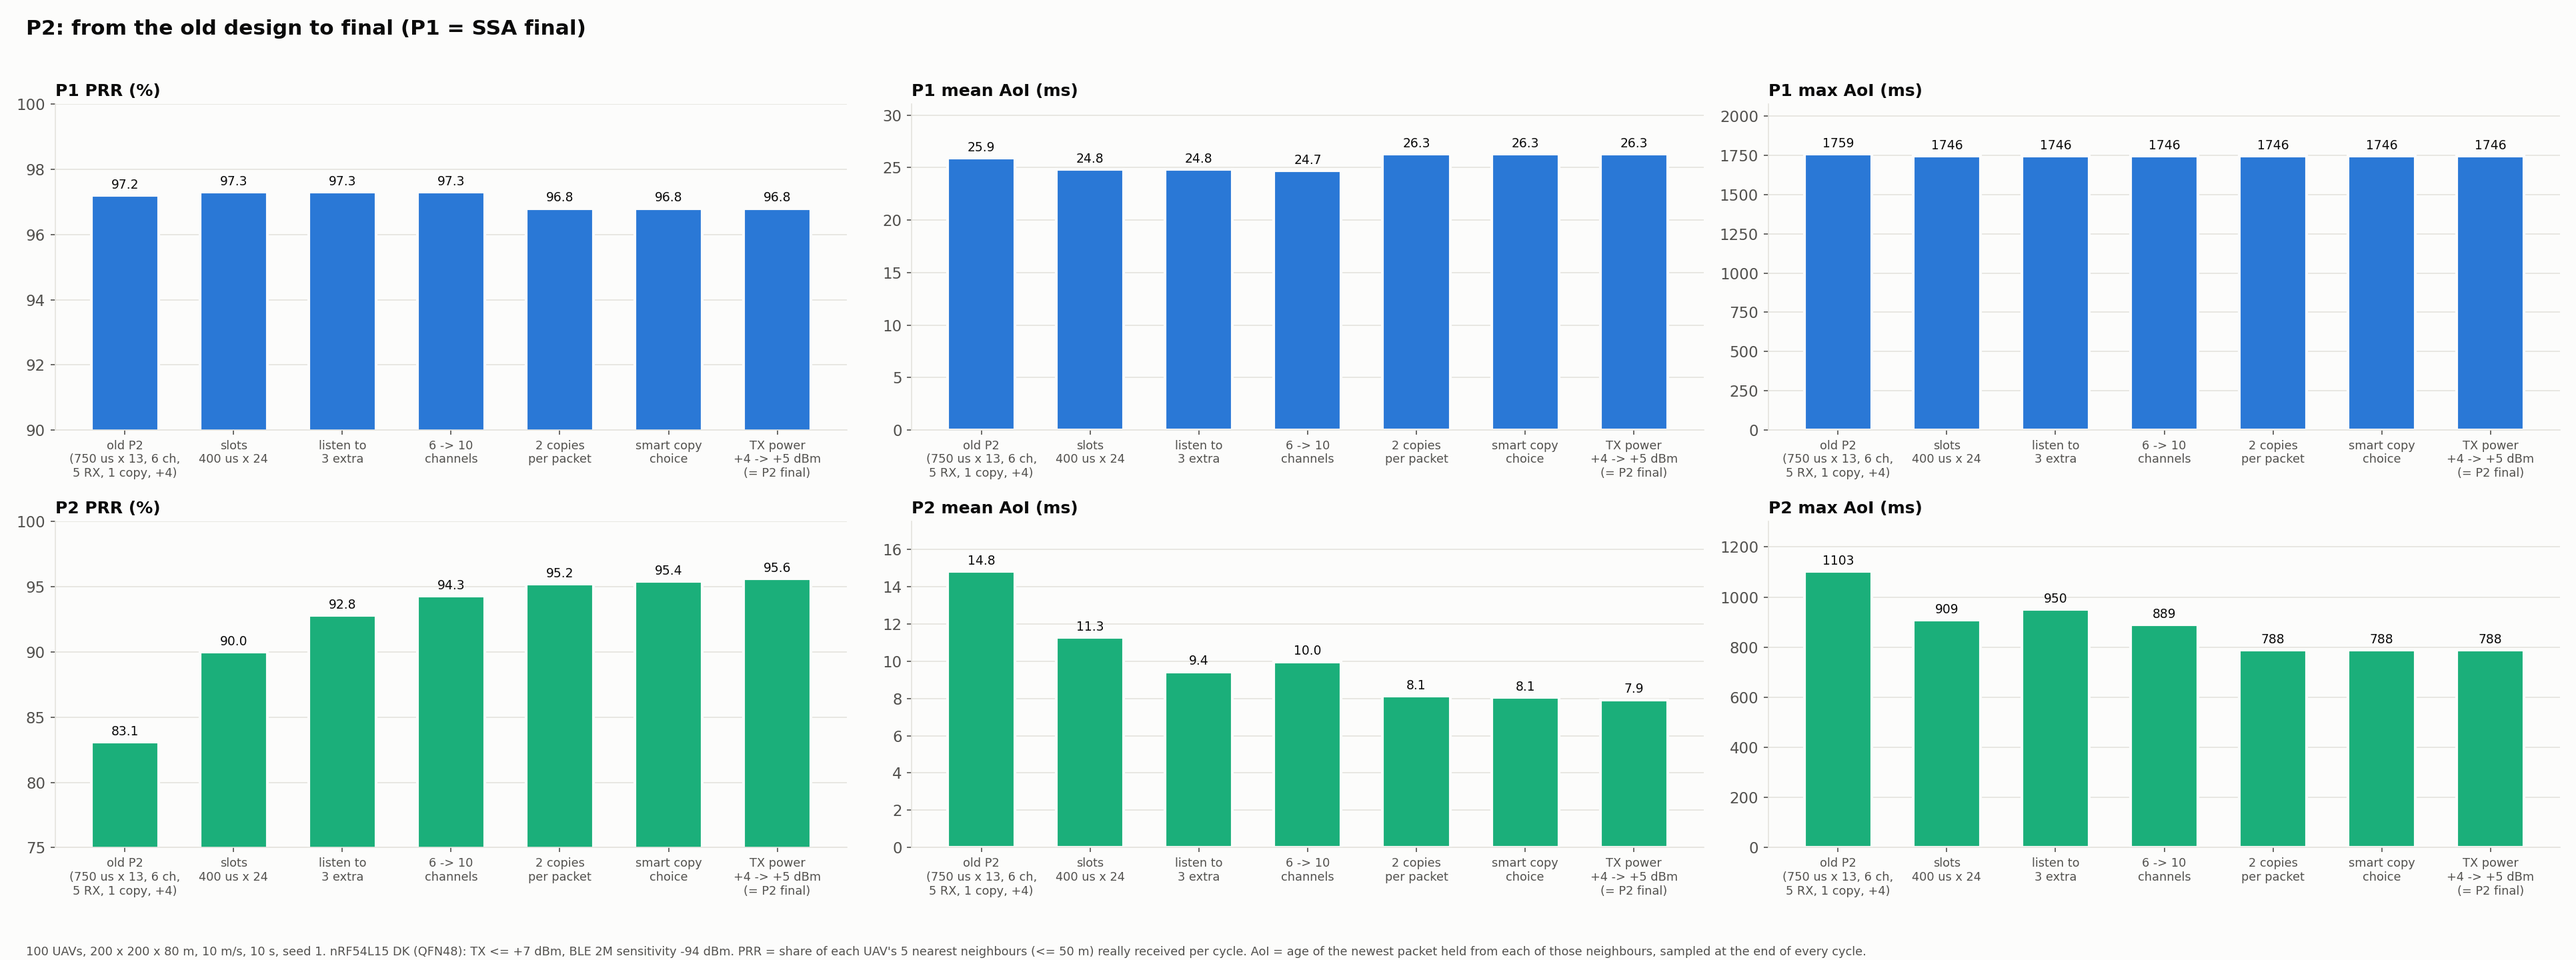
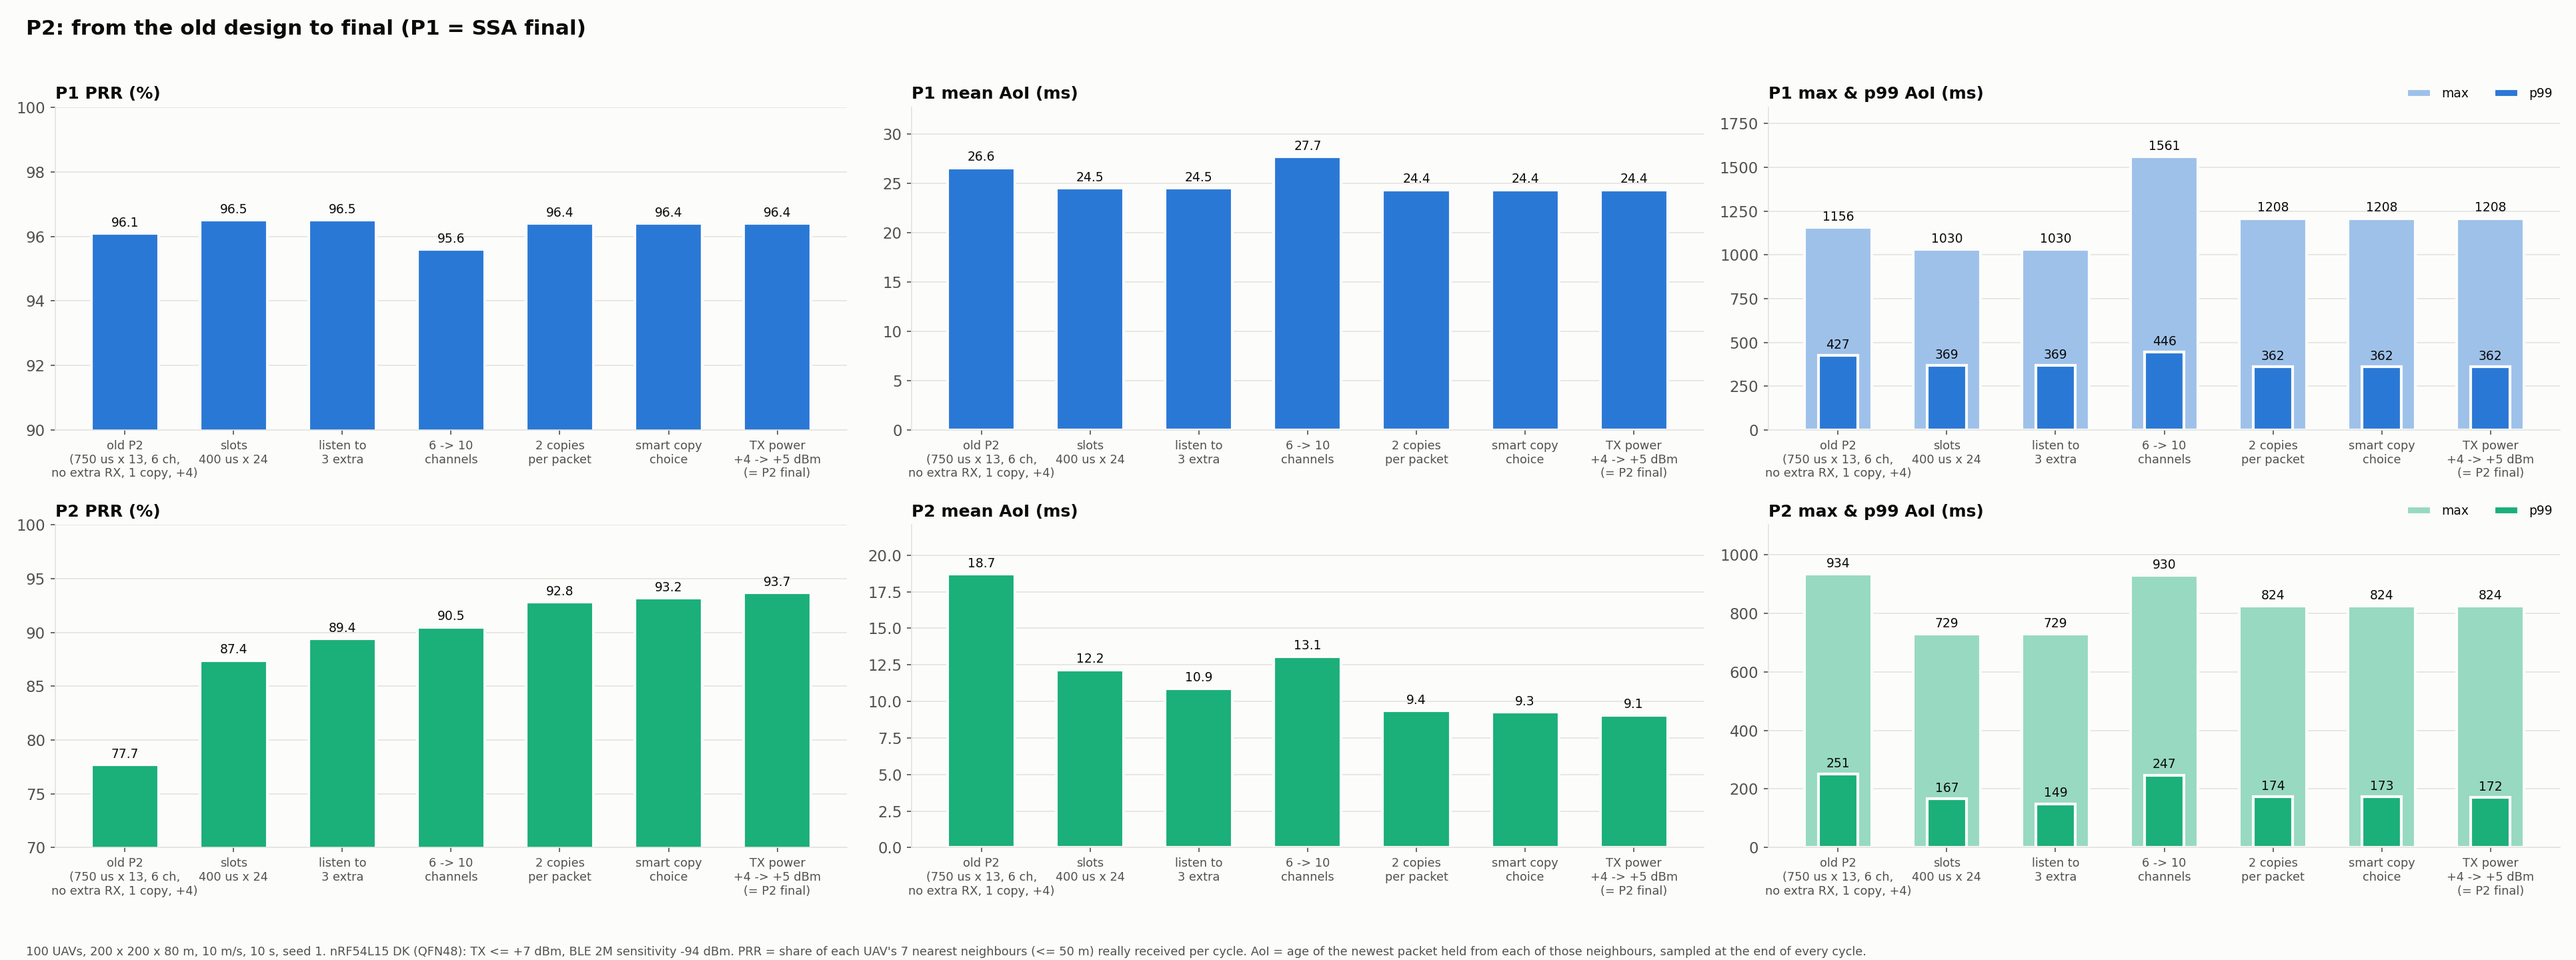
feat: Top-7 targets (--topK, default 7), AoI safety metrics; SSA final reselection 20-60 without first-pick counter; redo build-ups (seed 1)
Max AoI panels now also show p99. P2 final (top-7): PRR 93.7 %, mean AoI 9.1 ms, p99 172 ms.

diff --git a/scratch/lr-wpan-swarm.cc b/scratch/lr-wpan-swarm.cc
@@ -55,15 +55,19 @@ static uint32_t Crc32(const uint8_t* d, size_t n) {
     }
     return ~c;
 }
-// Age of Information, sampled once per cycle at the end of P2 for every true Top-5 (<= 50 m) link:
+// Age of Information, sampled once per cycle at the end of P2 for every true Top-K (<= 50 m) link:
 //   AoI = now - max(generation time of the newest packet received from that neighbour,
-//                   start of the cycle in which the neighbour (re)entered the Top-5)
+//                   start of the cycle in which the neighbour (re)entered the Top-K)
 // generation time = the packet's TX start. Separate for P1 beacons and P2 state packets.
 struct AoiLinkState { uint32_t lastEpoch = 0; double entryMs = 0.0; };
 static std::map<std::pair<uint16_t, uint16_t>, AoiLinkState> g_aoiLink;
 static std::map<std::pair<uint16_t, uint16_t>, double> g_aoiLastP1Gen, g_aoiLastP2Gen;
 static std::map<uint32_t, double> g_cycleStartMs;
 static std::vector<double> g_aoiP1Samples, g_aoiP2Samples;
+// Safety view: how often information is stale, and the worst age for close neighbours (<= 20 m)
+static uint64_t g_aoiP1Over100 = 0, g_aoiP1Over500 = 0, g_aoiP2Over100 = 0, g_aoiP2Over500 = 0;
+static double g_aoiP1MaxClose = 0.0, g_aoiP2MaxClose = 0.0;
+const double AOI_CLOSE_M = 20.0;
 bool g_p1Capture = false;      // idealized P1 capture (re-sync to a >= 6 dB stronger packet); real BLE cannot
 static uint64_t g_p1CaptureEvents = 0;
 bool g_p2SmartPick = true;    // 2 copies: first book the copy whose cell no other heard neighbour also claims
@@ -130,7 +134,7 @@ const uint8_t BROADCAST_CHANNEL = 11;
 // --- 目標條件設定 ---
 const double M_RADIUS_METERS = 50.0;    // 評估指標用的實際距離 (Ground Truth)
 // (Old threshold removed)
-const int K_CLOSEST = 5;                 // 從鄰居中挑選最近的 K 個
+int K_CLOSEST = 7;                       // Top-K: the K nearest neighbours within 50 m are the targets (--topK)
 
 // 全域統計
 static int g_totalDataPacketsReceived = 0;
@@ -1741,7 +1745,7 @@ private:
                 }
 
                 {
-                    // End-of-cycle AoI sample for this Top-5 link (P1 and P2)
+                    // End-of-cycle AoI sample for this Top-K link (P1 and P2)
                     std::pair<uint16_t, uint16_t> key{(uint16_t)r, sender};
                     AoiLinkState& st = g_aoiLink[key];
                     if (st.lastEpoch + 1 != epoch) {
@@ -1754,8 +1758,17 @@ private:
                     auto g2 = g_aoiLastP2Gen.find(key);
                     double ref1 = std::max(st.entryMs, g1 != g_aoiLastP1Gen.end() ? g1->second : -1e18);
                     double ref2 = std::max(st.entryMs, g2 != g_aoiLastP2Gen.end() ? g2->second : -1e18);
-                    g_aoiP1Samples.push_back(tNow - ref1);
-                    g_aoiP2Samples.push_back(tNow - ref2);
+                    double a1 = tNow - ref1, a2 = tNow - ref2;
+                    g_aoiP1Samples.push_back(a1);
+                    g_aoiP2Samples.push_back(a2);
+                    if (a1 > 100.0) g_aoiP1Over100++;
+                    if (a1 > 500.0) g_aoiP1Over500++;
+                    if (a2 > 100.0) g_aoiP2Over100++;
+                    if (a2 > 500.0) g_aoiP2Over500++;
+                    if (dist <= AOI_CLOSE_M) {
+                        g_aoiP1MaxClose = std::max(g_aoiP1MaxClose, a1);
+                        g_aoiP2MaxClose = std::max(g_aoiP2MaxClose, a2);
+                    }
                 }
                 auto genIt = g_lastBeaconRxGenTime.find({(uint16_t)r, sender});
                 if (genIt != g_lastBeaconRxGenTime.end()) {
@@ -2038,6 +2051,16 @@ void PrintPhase2GroundTruthReport() {
     ss << "Slot Guard Band (RX Turnaround)                   : " << g_slotGuardBandUs << " us\n";
     ss << "AoI P1 at cycle end (mean / p99 / max)            : " << AoiLine(g_aoiP1Samples) << "\n";
     ss << "AoI P2 at cycle end (mean / p99 / max)            : " << AoiLine(g_aoiP2Samples) << "\n";
+    {
+        double n1 = std::max<size_t>(1, g_aoiP1Samples.size()), n2 = std::max<size_t>(1, g_aoiP2Samples.size());
+        ss << std::fixed << std::setprecision(3)
+           << "AoI P1 safety (>100 ms % / >500 ms % / max <=20 m) : " << 100.0 * g_aoiP1Over100 / n1 << " / "
+           << 100.0 * g_aoiP1Over500 / n1 << " / " << std::setprecision(2) << g_aoiP1MaxClose << " ms\n"
+           << std::setprecision(3)
+           << "AoI P2 safety (>100 ms % / >500 ms % / max <=20 m) : " << 100.0 * g_aoiP2Over100 / n2 << " / "
+           << 100.0 * g_aoiP2Over500 / n2 << " / " << std::setprecision(2) << g_aoiP2MaxClose << " ms\n";
+        ss << "Top-K target neighbours (within 50 m)             : " << K_CLOSEST << "\n";
+    }
     ss << "P2 Payload Check (valid / bad / stale cycle)      : " << g_p2PayloadOk << " / " << g_p2PayloadBad << " / " << g_p2PayloadStale << "\n";
     ss << "P2 Access                                         : scheduled broadcast TDMA, " << (g_p2Cca ? "CCA before TX" : "no CCA (BLE)") << ", TX power " << g_p2TxPower << " dBm, " << g_p2Copies << " cop" << (g_p2Copies > 1 ? "ies" : "y") << " per cycle\n";
     ss << "P2 RX Slots per Cycle (avg, 5 + extra " << g_p2ExtraRx << ")      : " << std::fixed << std::setprecision(2) << (g_p2ScheduleCount ? (double)g_p2RxSlotsTotal / g_p2ScheduleCount : 0.0) << "\n";
@@ -2205,6 +2228,7 @@ int main(int argc, char *argv[]) {
     cmd.AddValue("positions", "Test mode: fixed positions 'x,y,z;x,y,z;...' (sets numNodes, speed 0)", g_testPositions);
     cmd.AddValue("forceP1Slots", "Test mode: fixed SSA P1 slots 'id:slot;...' (no reselection)", g_forceP1Slots);
     cmd.AddValue("forceCells", "Test mode: forced P2 cells 'id:slot:ch[:slot2:ch2];...'", g_forceCells);
+    cmd.AddValue("topK", "Number of nearest neighbours within 50 m that each UAV must receive (default 7)", K_CLOSEST);
     cmd.AddValue("p1Capture", "Idealized P1 capture: re-sync to a packet >= preambleLockDb stronger (default false; real BLE cannot)", g_p1Capture);
     cmd.AddValue("p2SmartPick", "Phase 2 (2 copies): first book the copy whose cell no other heard neighbour claims (default true)", g_p2SmartPick);
     cmd.AddValue("p2Copies", "Phase 2: state packet copies per cycle, 1 or 2 (default 2; falls back to 1 above 32 slots)", g_p2Copies);

diff --git a/run_final.py b/run_final.py
@@ -28,13 +28,14 @@ import sys
 from concurrent.futures import ThreadPoolExecutor
 
 COMMON = ("--simTime=10 --numNodes=100 --nodeSpeed=10.0 --spaceSize=200 --spaceZ=80 "
-          "--p1Duration=10 --preambleLockDb=6 --autoPush=false --rxSensitivityDbm=-94")
+          "--p1Duration=10 --preambleLockDb=6 --autoPush=false --rxSensitivityDbm=-94 --topK=7")
+TOPK = 7   # each UAV must receive its 7 nearest neighbours within 50 m
 
 # ---------------- final settings ----------------
 P2_FINAL = dict(dataSlotUs=400, slotGuardBandUs=30, numSlots=24, numChannels=10, p2ExtraRx=3, p2TxPower=5,
                 p1AvoidDist=50, p2Copies=2, p2SmartPick="true")
 SSA_FINAL = dict(enableP1Ssa="true", p1SlotUs=150, p1TxPower=7, p1PoolFrac=0.25, p1SenseDecay=0.6,
-                 p1ReselMin=30, p1ReselMax=90, p1ReselInitMin=2, p1ReselInitMax=5)
+                 p1ReselMin=20, p1ReselMax=60, p1ReselInitMin=-1, p1ReselInitMax=-1)
 CSMA_FINAL = dict(enableP1Ssa="false", p1TxPower=5, p1CcaThresholdDbm=-94, p1MaxBackoffs=1, p1MinBE=0,
                   p1RetryMinMs=0.1, p1RetryMaxMs=0.5, p1Copies=1)
 
@@ -69,12 +70,11 @@ EXPERIMENTS = {
             ("slot\n300 -> 150 us", dict(p1SlotUs=150)),
             ("RSSI memory\ndecay 0.6", dict(p1SenseDecay=0.6)),
             ("TX power\n+4 -> +7 dBm", dict(p1TxPower=7)),
-            ("reselection\n5-15 -> 30-90", dict(p1ReselMin=30, p1ReselMax=90)),
-            ("first pick\nreselect 2-5\n(= SSA final)", dict(p1ReselInitMin=2, p1ReselInitMax=5)),
+            ("reselection\n5-15 -> 20-60\n(= SSA final)", dict(p1ReselMin=20, p1ReselMax=60)),
         ])]),
     "buildup_p2": dict(
         steps=[(lbl, dict(p, **SSA_FINAL)) for lbl, p in chain(P2_OLD, [
-            ("old P2\n(750 us x 13, 6 ch,\n5 RX, 1 copy, +4)", {}),
+            ("old P2\n(750 us x 13, 6 ch,\nno extra RX, 1 copy, +4)", {}),
             ("slots\n400 us x 24", dict(dataSlotUs=400, slotGuardBandUs=30, numSlots=24)),
             ("listen to\n3 extra", dict(p2ExtraRx=3)),
             ("6 -> 10\nchannels", dict(numChannels=10)),
@@ -91,11 +91,13 @@ EXPERIMENTS = {
                for lo, hi in ((3, 9), (5, 15), (10, 30), (15, 45), (20, 60), (30, 90), (50, 150))]),
 }
 
-METRICS = ["P1", "P2", "AoI1_mean", "AoI1_p99", "AoI1_max", "AoI2_mean", "AoI2_p99", "AoI2_max"]
+METRICS = ["P1", "P2", "AoI1_mean", "AoI1_p99", "AoI1_max", "AoI2_mean", "AoI2_p99", "AoI2_max",
+           "AoI1_over100", "AoI1_over500", "AoI1_maxclose", "AoI2_over100", "AoI2_over500", "AoI2_maxclose"]
+BUILDUPS = ["buildup_csma", "buildup_ssa", "buildup_p2"]
 
 if __name__ == "__main__":
     ap = argparse.ArgumentParser()
-    ap.add_argument("--exps", nargs="+", default=list(EXPERIMENTS), choices=list(EXPERIMENTS))
+    ap.add_argument("--exps", nargs="+", default=BUILDUPS, choices=list(EXPERIMENTS))
     ap.add_argument("--seeds", type=int, nargs="+", default=[1])
     ap.add_argument("--jobs", type=int, default=max(1, (os.cpu_count() or 2) - 1))
     ap.add_argument("--no-push", action="store_true")
@@ -117,7 +119,7 @@ if __name__ == "__main__":
     def flags(params):
         return " ".join(f"--{k}={v}" for k, v in sorted(params.items()))
 
-    CSV_PATH = os.path.join(PROJECT_DIR, "results", "final_runs.csv")
+    CSV_PATH = os.path.join(PROJECT_DIR, "results", f"final_runs_top{TOPK}.csv")   # cache key = flags + seed
     os.makedirs(os.path.dirname(CSV_PATH), exist_ok=True)
     cache = {}
     if os.path.exists(CSV_PATH):
@@ -141,9 +143,15 @@ if __name__ == "__main__":
         def aoi(t, k):
             m = re.search(rf"AoI {k} at cycle end \(mean / p99 / max\)\s*:\s*([\d.]+) / ([\d.]+) / ([\d.]+)", t)
             return [float(x) for x in m.groups()] if m else [float("nan")] * 3
+        def safety(t, k):
+            m = re.search(rf"AoI {k} safety \(>100 ms % / >500 ms % / max <=20 m\)\s*:\s*([\d.]+) / ([\d.]+) / ([\d.]+)", t)
+            return [float(x) for x in m.groups()] if m else [float("nan")] * 3
         a1, a2 = aoi(t2, "P1"), aoi(t2, "P2")
+        s1, s2 = safety(t2, "P1"), safety(t2, "P2")
         return dict(P1=prr(t1), P2=prr(t2), AoI1_mean=a1[0], AoI1_p99=a1[1], AoI1_max=a1[2],
-                    AoI2_mean=a2[0], AoI2_p99=a2[1], AoI2_max=a2[2])
+                    AoI2_mean=a2[0], AoI2_p99=a2[1], AoI2_max=a2[2],
+                    AoI1_over100=s1[0], AoI1_over500=s1[1], AoI1_maxclose=s1[2],
+                    AoI2_over100=s2[0], AoI2_over500=s2[1], AoI2_maxclose=s2[2])
 
     def run_one(job):
         fl, seed = job
@@ -208,7 +216,7 @@ if __name__ == "__main__":
         sys.exit(0)
     try:
         subprocess.run(["git", "pull", "--rebase", "--autostash", "origin", "main"], cwd=PROJECT_DIR, check=True)
-        subprocess.run(["git", "add", "-f", "results/final_runs.csv", "run_final.py"] + saved, cwd=PROJECT_DIR, check=True)
+        subprocess.run(["git", "add", "-f", os.path.relpath(CSV_PATH, PROJECT_DIR), "run_final.py"] + saved, cwd=PROJECT_DIR, check=True)
         subprocess.run(["git", "commit", "-m", f"data: final {' '.join(a.exps)} (seeds {a.seeds})"], cwd=PROJECT_DIR, check=True)
         subprocess.run(["git", "push", "origin", "HEAD:main"], cwd=PROJECT_DIR, check=True)
         print("✓ Results pushed to GitHub")

diff --git a/plot_final.py b/plot_final.py
@@ -32,10 +32,18 @@ TITLES = {
     "buildup_ssa": "P1 SSA: from the first version to final",
     "buildup_p2": "P2: from the old design to final (P1 = SSA final)",
 }
-PANELS = [("P1", "P1 PRR (%)", "%"), ("AoI1_mean", "P1 mean AoI (ms)", "ms"), ("AoI1_max", "P1 max AoI (ms)", "ms"),
-          ("P2", "P2 PRR (%)", "%"), ("AoI2_mean", "P2 mean AoI (ms)", "ms"), ("AoI2_max", "P2 max AoI (ms)", "ms")]
+PANELS = [("P1", "P1 PRR (%)", "%"), ("AoI1_mean", "P1 mean AoI (ms)", "ms"), ("AoI1_max", "P1 max & p99 AoI (ms)", "ms"),
+          ("P2", "P2 PRR (%)", "%"), ("AoI2_mean", "P2 mean AoI (ms)", "ms"), ("AoI2_max", "P2 max & p99 AoI (ms)", "ms")]
+
+
+def tint(hex_color, amount=0.55):
+    """Lighter step of the same hue (blend toward the surface)."""
+    h = hex_color.lstrip("#")
+    c = [int(h[i:i + 2], 16) for i in (0, 2, 4)]
+    sfc = [int(SURFACE[1:][i:i + 2], 16) for i in (0, 2, 4)]
+    return "#" + "".join(f"{round(v + (sv - v) * amount):02x}" for v, sv in zip(c, sfc))
 NOTE = ("100 UAVs, 200 x 200 x 80 m, 10 m/s, 10 s, seed 1. nRF54L15 DK (QFN48): TX <= +7 dBm, BLE 2M sensitivity -94 dBm. "
-        "PRR = share of each UAV's 5 nearest neighbours (<= 50 m) really received per cycle. "
+        "PRR = share of each UAV's 7 nearest neighbours (<= 50 m) really received per cycle. "
         "AoI = age of the newest packet held from each of those neighbours, sampled at the end of every cycle.")
 
 
@@ -65,7 +73,16 @@ for exp, title in TITLES.items():
     for ax, (key, name, unit) in zip(axes.flat, PANELS):
         color = BLUE if key.startswith(("P1", "AoI1")) else AQUA
         vals = [float(r[f"{key}_mean"]) for r in steps]
-        ax.bar(x, vals, width=0.62, color=color, edgecolor=SURFACE, linewidth=2)
+        is_max = key.endswith("_max")
+        ax.bar(x, vals, width=0.62, color=tint(color) if is_max else color, edgecolor=SURFACE, linewidth=2,
+               label="max" if is_max else None)
+        if is_max:
+            p99 = [float(r[f"{key.replace('_max', '_p99')}_mean"]) for r in steps]
+            ax.bar(x, p99, width=0.36, color=color, edgecolor=SURFACE, linewidth=2, label="p99")
+            for xi, v in zip(x, p99):
+                ax.annotate(fmt(v, unit), (xi, v), xytext=(0, 3), textcoords="offset points",
+                            ha="center", va="bottom", fontsize=9, color=INK)
+            ax.legend(loc="lower right", bbox_to_anchor=(1.0, 1.0), ncol=2, fontsize=9, borderaxespad=0.2)
         top = max(vals + [float(r[f"{key}_mean"]) for r in refs])
         for xi, v in zip(x, vals):
             ax.annotate(fmt(v, unit), (xi, v), xytext=(0, 3), textcoords="offset points",
@@ -73,7 +90,10 @@ for exp, title in TITLES.items():
         for r in refs:
             rv = float(r[f"{key}_mean"])
             ax.axhline(rv, color=INK2, ls="--", lw=1.4, label=f"{r['label']} (not possible on BLE chips)")
-            ax.annotate(fmt(rv, unit), (1.0, rv), xycoords=("axes fraction", "data"), xytext=(2, 0),
+            txt = fmt(rv, unit)
+            if is_max:
+                txt += f"\n(p99 {fmt(float(r[key.replace('_max', '_p99') + '_mean']), unit)})"
+            ax.annotate(txt, (1.0, rv), xycoords=("axes fraction", "data"), xytext=(2, 0),
                         textcoords="offset points", ha="left", va="center", fontsize=9, color=INK2)
         if unit == "%":
             lo = min(vals + [float(r[f"{key}_mean"]) for r in refs])
